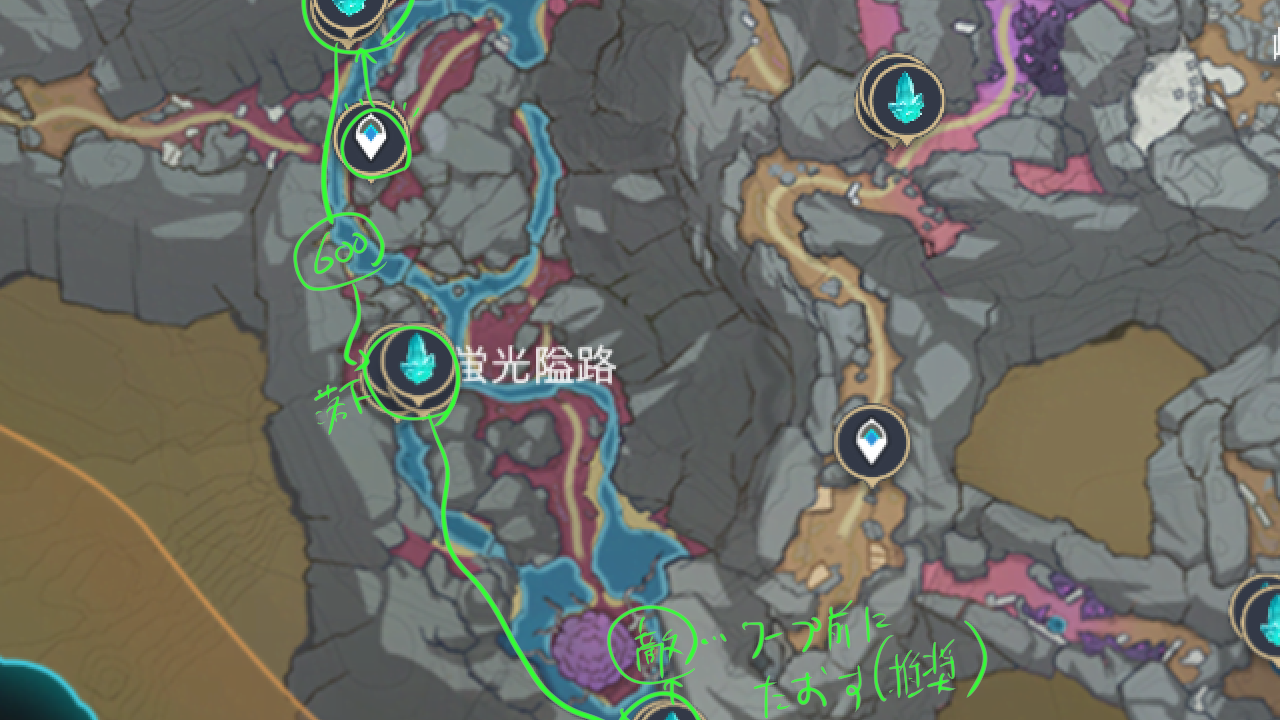
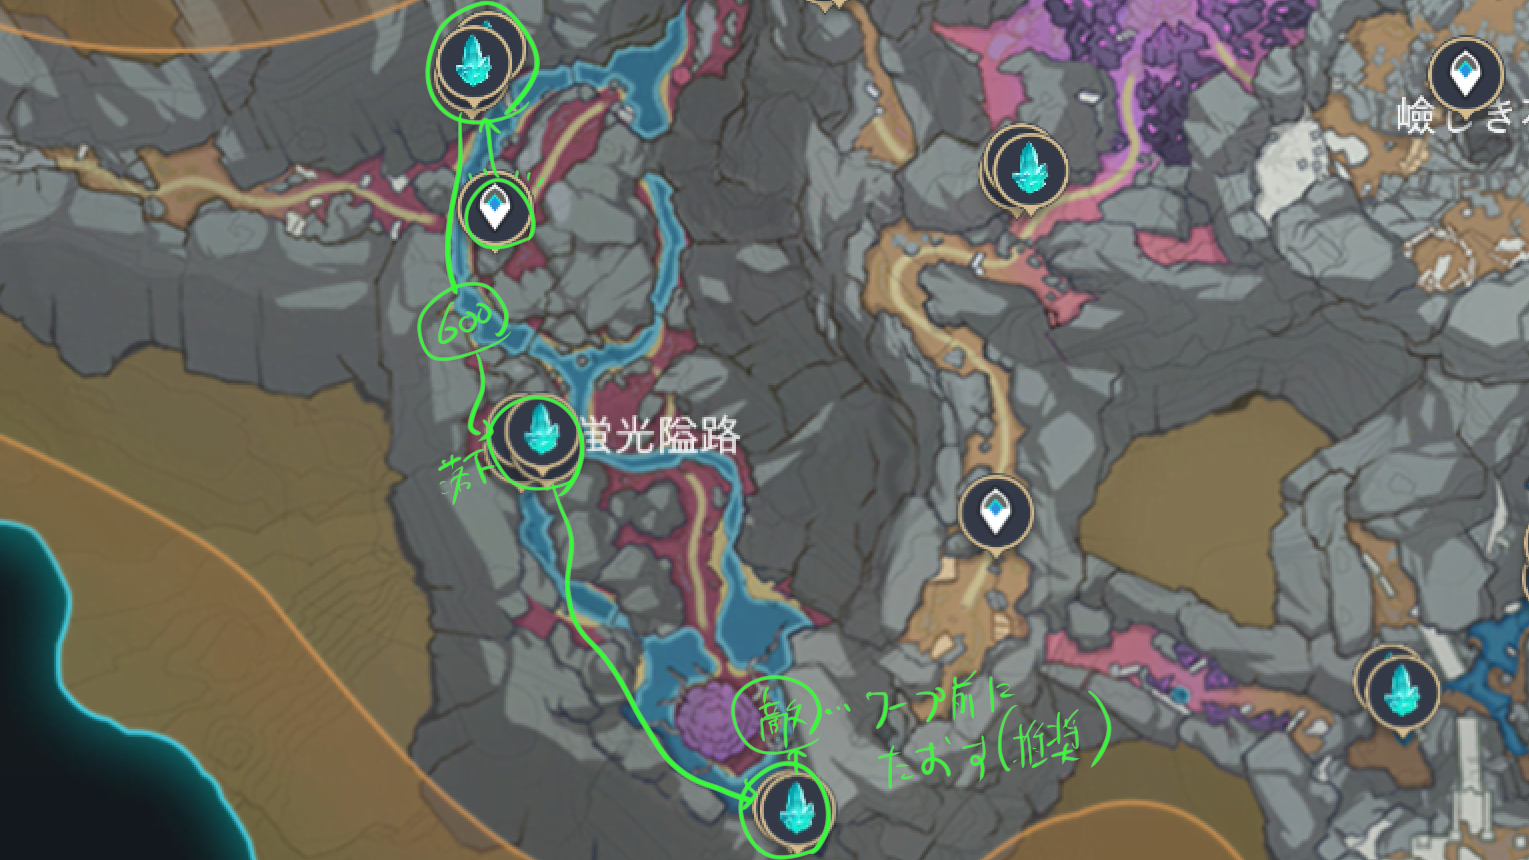
マップ見切れてたので修正

diff --git a/genshin-crystal-map-memo/export_psd_slideshow.py b/genshin-crystal-map-memo/export_psd_slideshow.py
@@ -2,6 +2,7 @@ import os
 import json
 from psd_tools import PSDImage
 from PIL import Image
+import math
 
 psd_path = 'map.psd'
 output_dir = 'slides'
@@ -29,6 +30,15 @@ for i, layer in enumerate(psd[1:], start=1):
     center_x = (x1 + x2) // 2
     center_y = (y1 + y2) // 2
     crop_w, crop_h = 1280, 720
+    bbox_w = x2 - x1
+    bbox_h = y2 - y1
+    # bboxが1280x720より大きい場合は、bbox全体が収まる最小の16:9サイズに拡大
+    scale_w = bbox_w / 1280
+    scale_h = bbox_h / 720
+    scale = max(1, max(scale_w, scale_h))
+    crop_w = math.ceil(1280 * scale)
+    crop_h = math.ceil(720 * scale)
+    # 切り出し範囲を決定
     left = max(center_x - crop_w // 2, 0)
     top = max(center_y - crop_h // 2, 0)
     right = min(left + crop_w, canvas_size[0])
